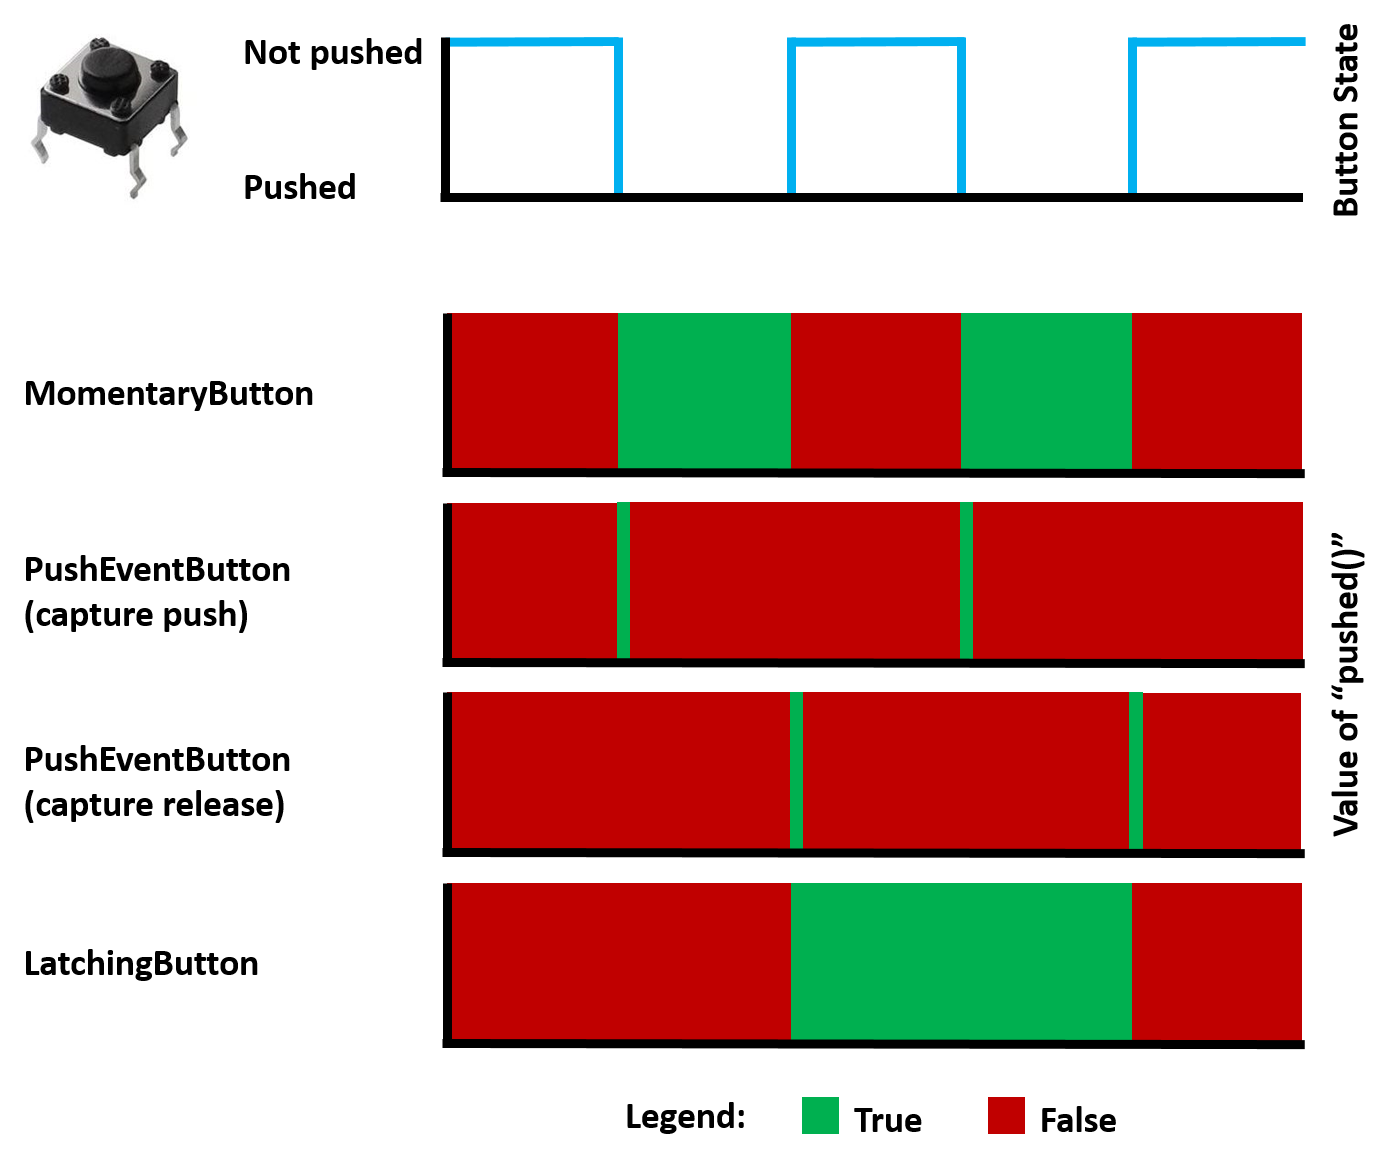
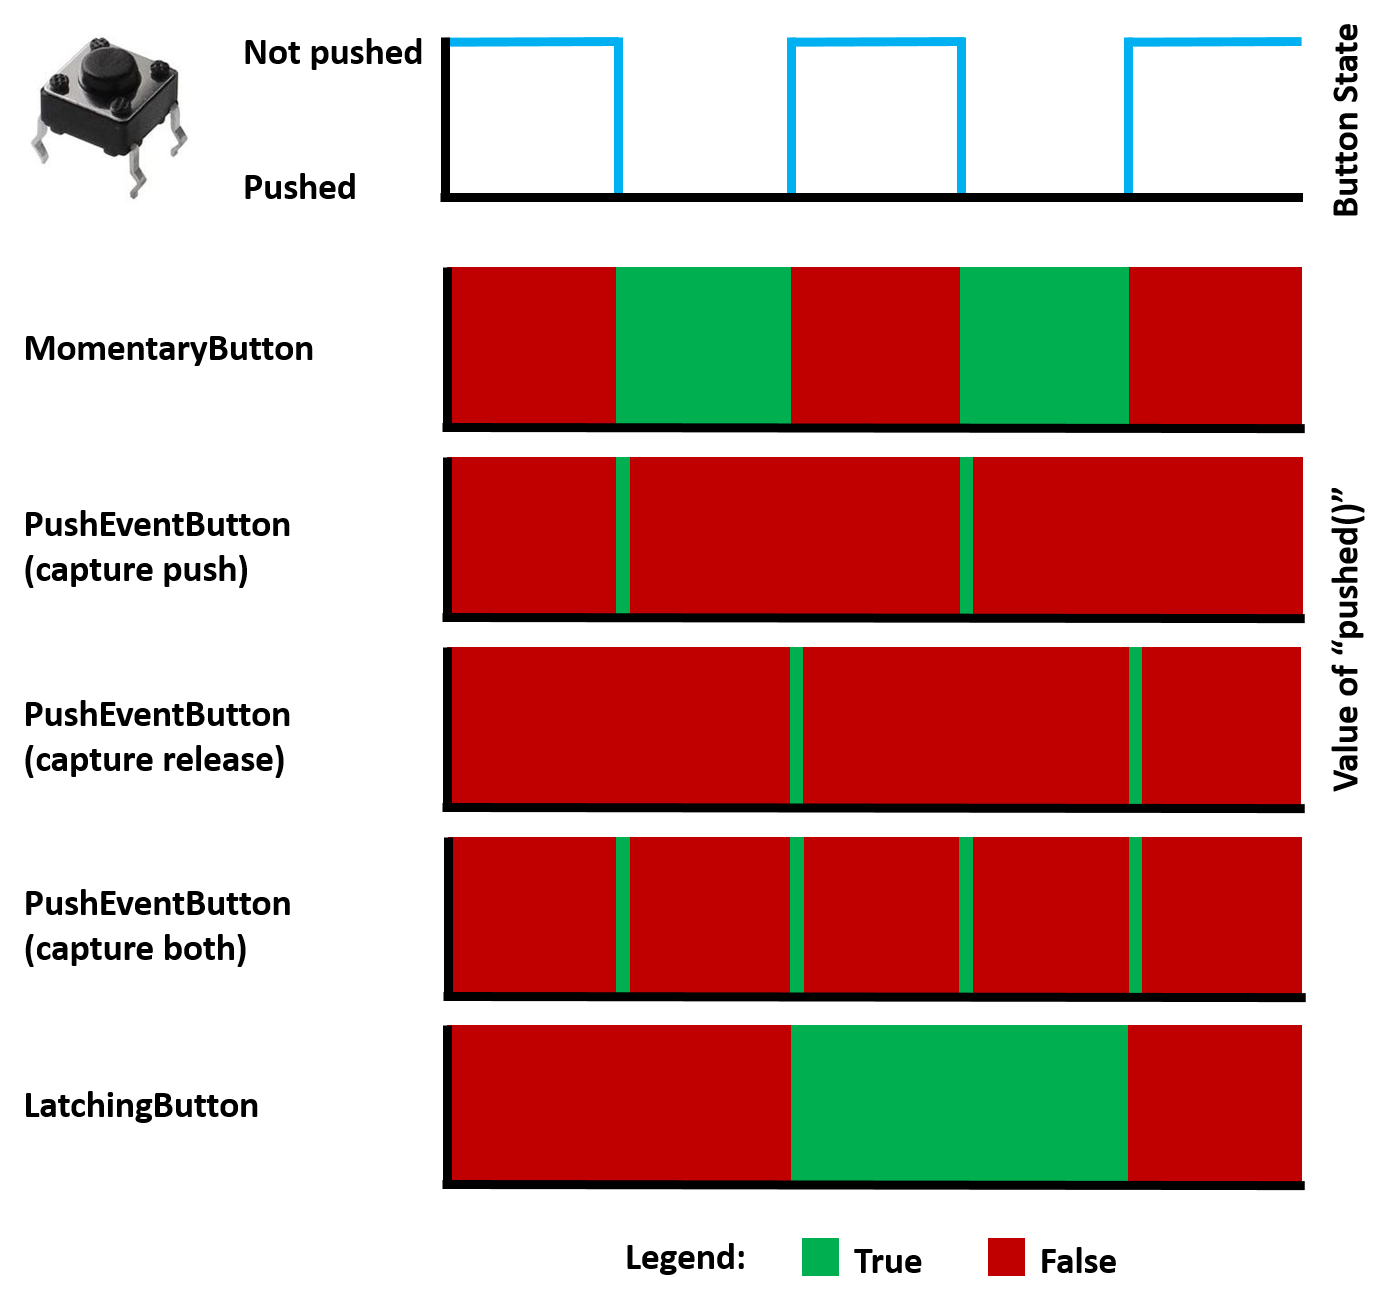
Updated PushEventButton to allow for capturing both push and release.
Updated PushEventButton to allow for capturing both push and release.

diff --git a/src/PushEventButton.cpp b/src/PushEventButton.cpp
@@ -59,7 +59,7 @@ bool PushEventButton::pushed()
 	{
 		case CAPTUREPUSH:
 		{
-			if (status == BUTTONSUITE::JUSTPRESSED)
+			if (status & BUTTONSUITE::JUSTPRESSED)
 			{
 				return true;
 			}
@@ -71,7 +71,19 @@ bool PushEventButton::pushed()
 
 		case CAPTURERELEASE:
 		{
-			if (status == BUTTONSUITE::BUTTONSTATUS::WASSHORTPRESSED || status == BUTTONSUITE::BUTTONSTATUS::WASLONGPRESSED)
+			if (status & (BUTTONSUITE::WASSHORTPRESSED | BUTTONSUITE::WASLONGPRESSED))
+			{
+				return true;
+			}
+			else
+			{
+				return false;
+			}
+		}
+
+		case CAPTUREBOTH:
+		{
+			if (status & (BUTTONSUITE::JUSTPRESSED | BUTTONSUITE::WASSHORTPRESSED | BUTTONSUITE::WASLONGPRESSED))
 			{
 				return true;
 			}

diff --git a/src/PushEventButton.h b/src/PushEventButton.h
@@ -50,7 +50,8 @@ class PushEventButton : public TwoStateButton
 		enum CAPTURETYPE
 		{
 			CAPTUREPUSH,
-			CAPTURERELEASE
+			CAPTURERELEASE,
+			CAPTUREBOTH
 		};
 
 	public:
